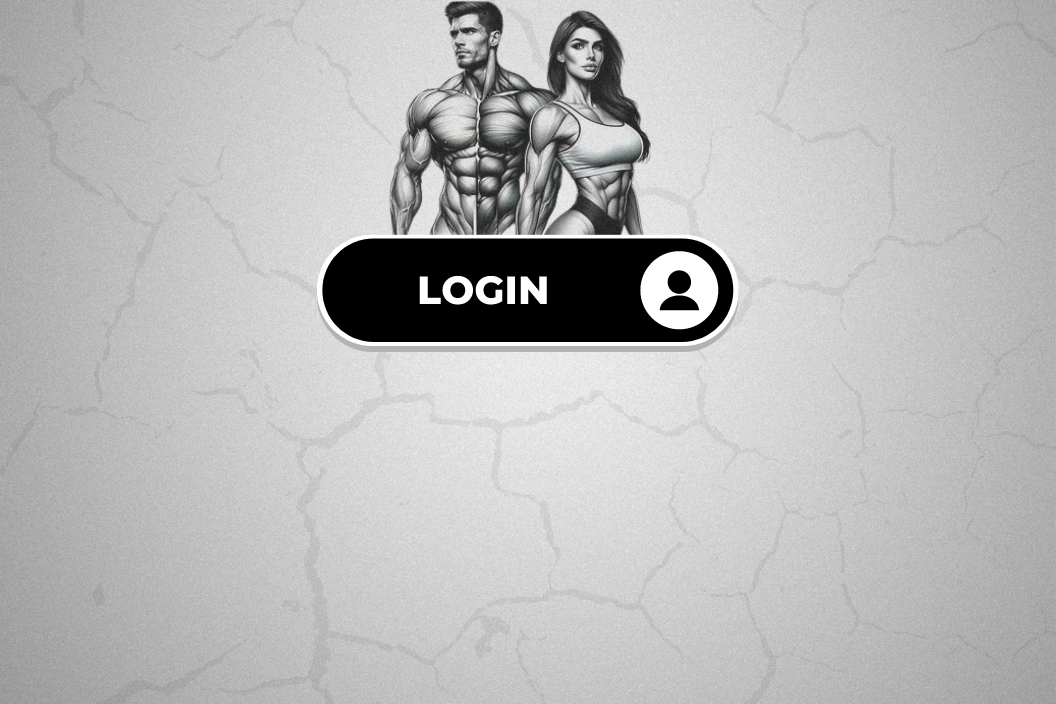
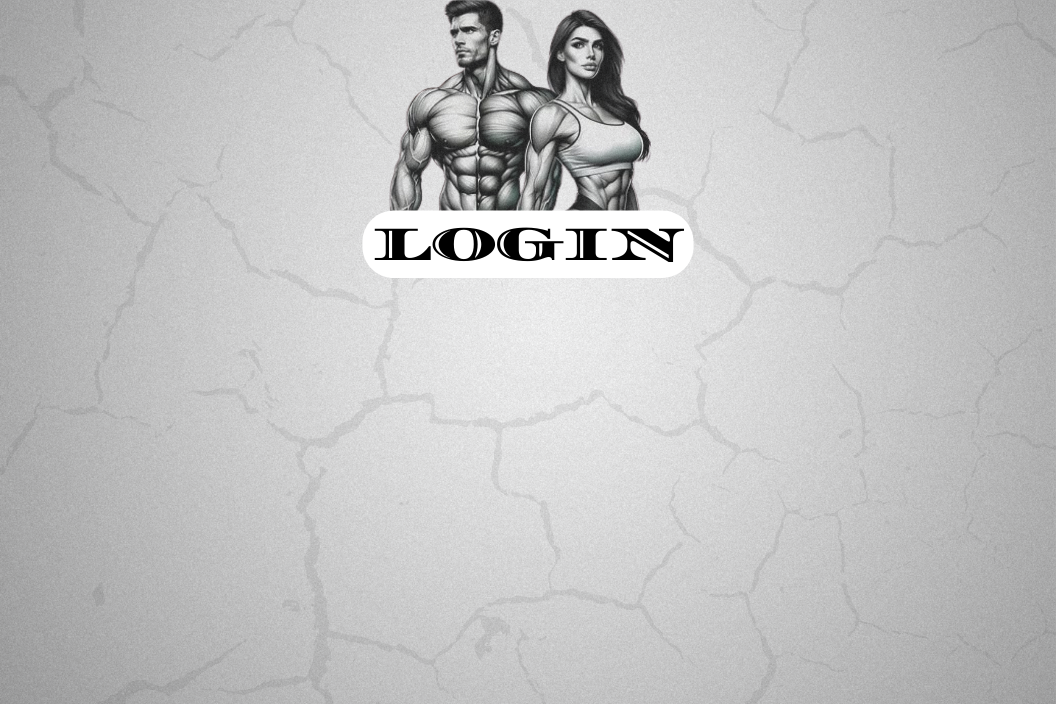
segunda

Changed region(s): [[0.2812, 0.0, 0.7188, 0.5]]

diff --git a/Academia/UIGestaoAcademia/FormLogin.Designer.cs b/Academia/UIGestaoAcademia/FormLogin.Designer.cs
@@ -45,7 +45,7 @@
             button2.AccessibleRole = AccessibleRole.None;
             button2.Anchor = AnchorStyles.None;
             button2.DialogResult = DialogResult.Cancel;
-            button2.Location = new Point(519, 539);
+            button2.Location = new Point(519, 450);
             button2.Margin = new Padding(3, 4, 3, 4);
             button2.Name = "button2";
             button2.RightToLeft = RightToLeft.No;
@@ -58,7 +58,7 @@
             // 
             buttonEntrar.AccessibleRole = AccessibleRole.None;
             buttonEntrar.Anchor = AnchorStyles.None;
-            buttonEntrar.Location = new Point(427, 539);
+            buttonEntrar.Location = new Point(427, 450);
             buttonEntrar.Margin = new Padding(3, 4, 3, 4);
             buttonEntrar.Name = "buttonEntrar";
             buttonEntrar.RightToLeft = RightToLeft.No;
@@ -84,7 +84,7 @@
             textBoxUsuario.BackColor = SystemColors.Window;
             textBoxUsuario.BorderStyle = BorderStyle.FixedSingle;
             textBoxUsuario.ForeColor = Color.Black;
-            textBoxUsuario.Location = new Point(336, 405);
+            textBoxUsuario.Location = new Point(336, 316);
             textBoxUsuario.Name = "textBoxUsuario";
             textBoxUsuario.Size = new Size(365, 27);
             textBoxUsuario.TabIndex = 0;
@@ -95,7 +95,7 @@
             textBoxSenha.Anchor = AnchorStyles.None;
             textBoxSenha.BorderStyle = BorderStyle.FixedSingle;
             textBoxSenha.ForeColor = Color.Black;
-            textBoxSenha.Location = new Point(336, 483);
+            textBoxSenha.Location = new Point(336, 394);
             textBoxSenha.Name = "textBoxSenha";
             textBoxSenha.PasswordChar = '*';
             textBoxSenha.Size = new Size(365, 27);
@@ -107,7 +107,7 @@
             label1.Anchor = AnchorStyles.None;
             label1.AutoSize = true;
             label1.Font = new Font("Swis721 BlkCn BT", 11.25F, FontStyle.Regular, GraphicsUnit.Point);
-            label1.Location = new Point(336, 383);
+            label1.Location = new Point(336, 294);
             label1.Name = "label1";
             label1.Size = new Size(70, 22);
             label1.TabIndex = 12;
@@ -118,7 +118,7 @@
             label2.Anchor = AnchorStyles.None;
             label2.AutoSize = true;
             label2.Font = new Font("Swis721 BlkCn BT", 10.2F, FontStyle.Regular, GraphicsUnit.Point);
-            label2.Location = new Point(336, 459);
+            label2.Location = new Point(336, 370);
             label2.Name = "label2";
             label2.Size = new Size(53, 20);
             label2.TabIndex = 12;

diff --git a/Academia/UIGestaoAcademia/FormBuscarDebito.Designer.cs b/Academia/UIGestaoAcademia/FormBuscarDebito.Designer.cs
@@ -206,7 +206,7 @@
             labelBuscarDebito.Anchor = AnchorStyles.None;
             labelBuscarDebito.BackColor = Color.Transparent;
             labelBuscarDebito.Font = new Font("Swis721 BlkCn BT", 24F, FontStyle.Regular, GraphicsUnit.Point);
-            labelBuscarDebito.ForeColor = SystemColors.InfoText;
+            labelBuscarDebito.ForeColor = SystemColors.Window;
             labelBuscarDebito.Location = new Point(2, 7);
             labelBuscarDebito.Name = "labelBuscarDebito";
             labelBuscarDebito.Size = new Size(1201, 67);
